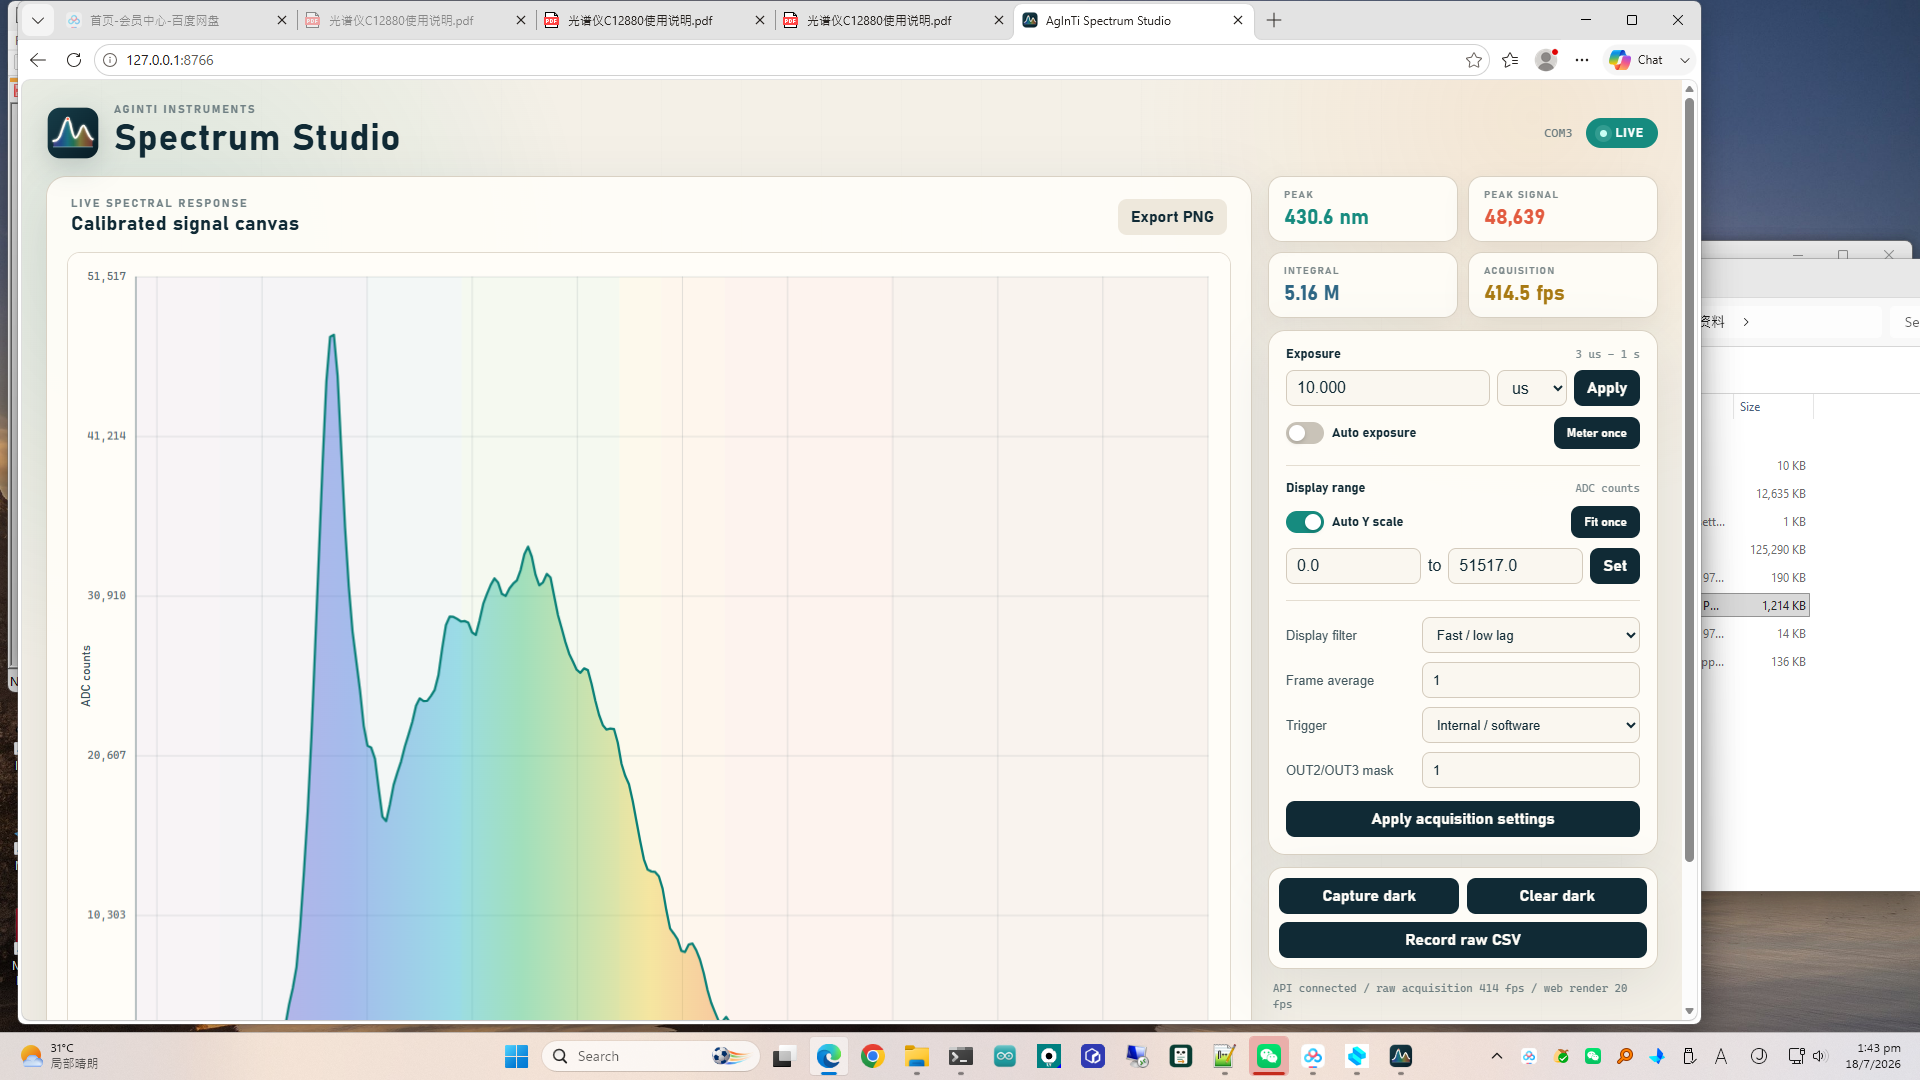
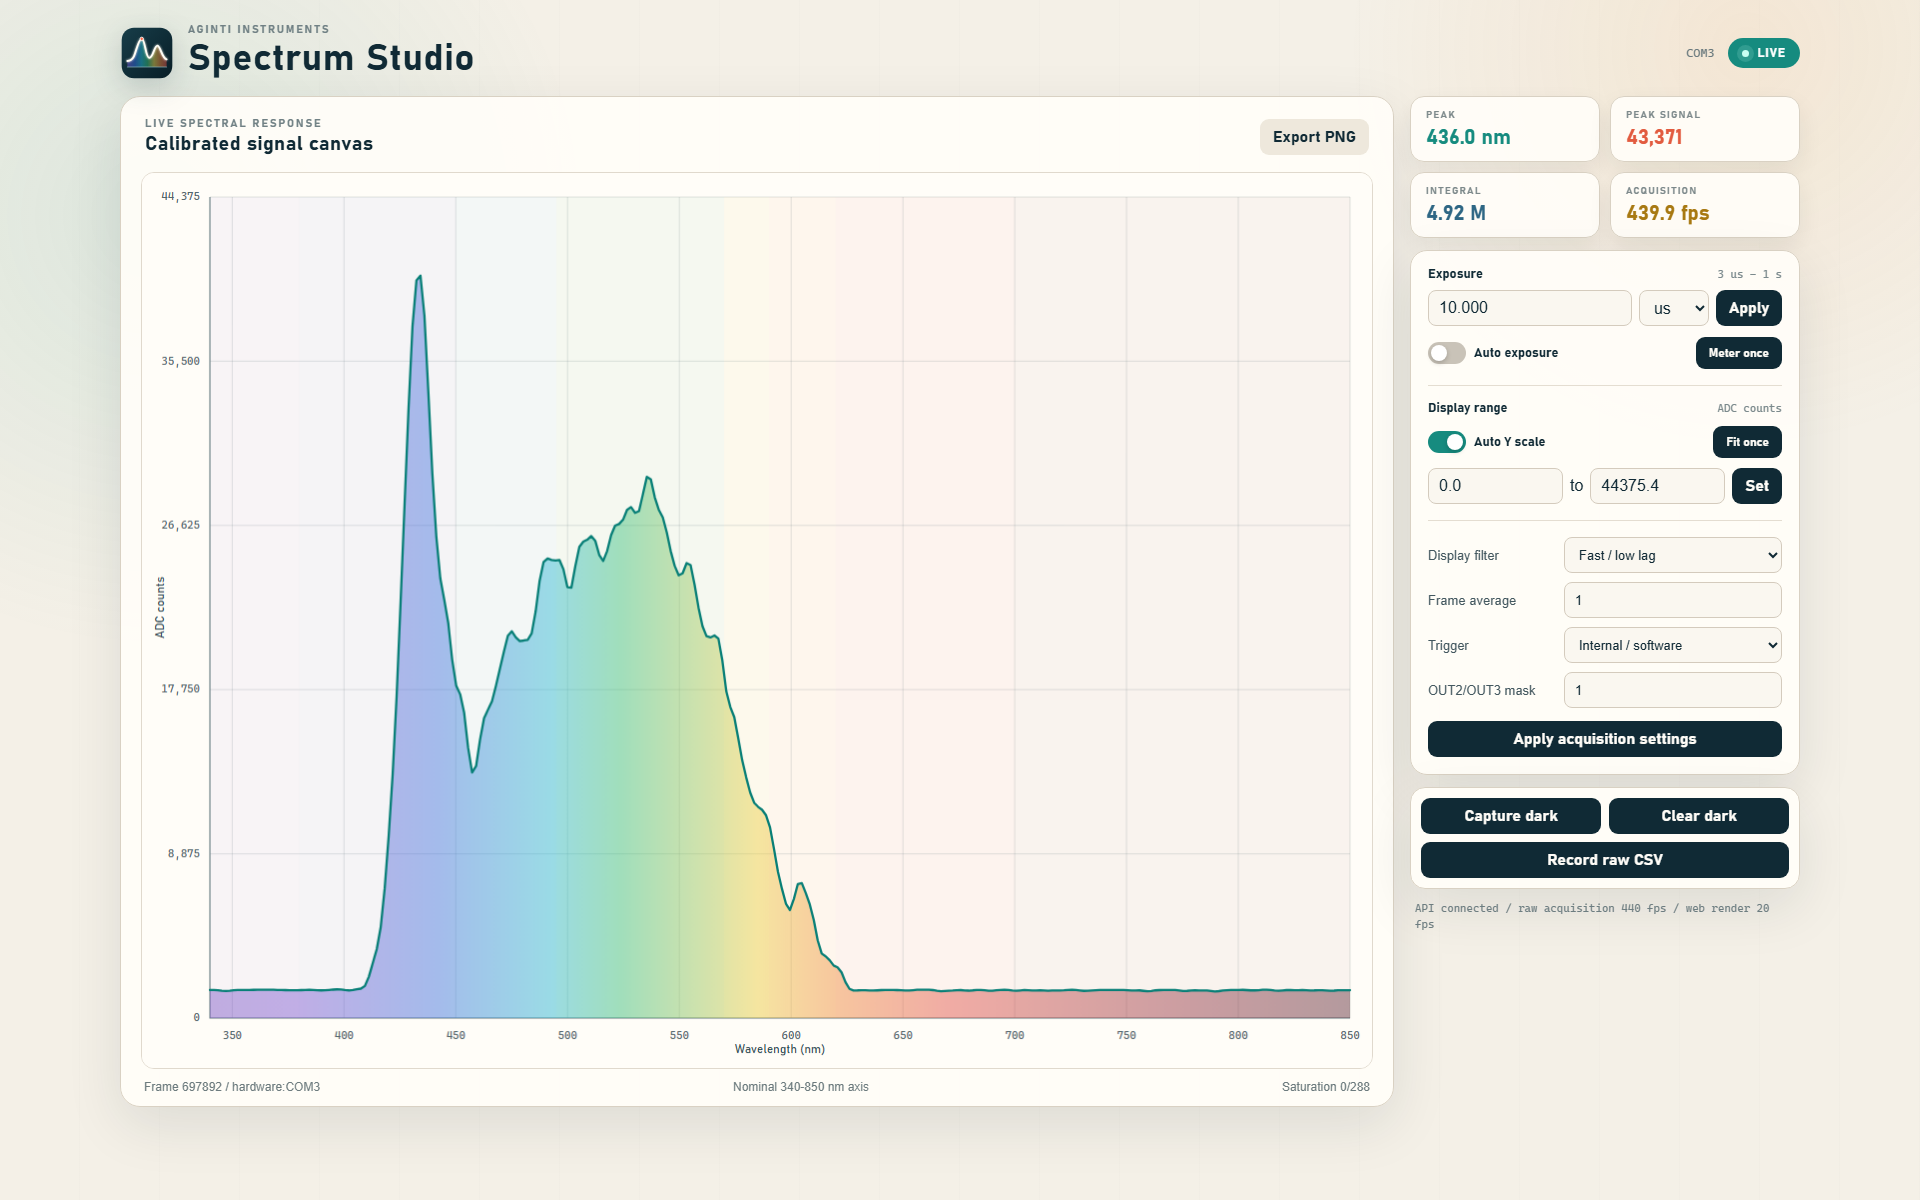
Refresh wavelength-aware live interface screenshot

diff --git a/README.md b/README.md
@@ -1,5 +1,23 @@
 # AgInTi Spectrum Studio
 
+[English](README.md) · [العربية](i18n/README.ar.md) · [Español](i18n/README.es.md) · [Français](i18n/README.fr.md) · [日本語](i18n/README.ja.md) · [한국어](i18n/README.ko.md) · [Tiếng Việt](i18n/README.vi.md) · [中文 (简体)](i18n/README.zh-Hans.md) · [中文（繁體）](i18n/README.zh-Hant.md) · [Deutsch](i18n/README.de.md) · [Русский](i18n/README.ru.md)
+
+<p align="center">
+  <img src="docs/assets/lazyingart-logo-white.jpg" width="108" alt="LazyingArt panda logo">
+</p>
+
+<p align="center">
+  <strong>High-rate C12880MA acquisition, adaptive exposure, and agent-ready spectral instrumentation.</strong>
+</p>
+
+<p align="center">
+  <a href="https://github.com/lachlanchen/AgInTi-Spectrometer"><img alt="GitHub" src="https://img.shields.io/badge/GitHub-AgInTi--Spectrometer-111827?logo=github"></a>
+  <a href="https://lazying.art"><img alt="LazyingArt" src="https://img.shields.io/badge/LazyingArt-Instrument-76B947"></a>
+  <img alt="Python" src="https://img.shields.io/badge/Python-3.11%2B-3776AB?logo=python&logoColor=white">
+</p>
+
+![AgInTi Spectrometer product prototype](docs/assets/aginti-spectrometer-hero.png)
+
 An independent acquisition and visualization application for the Hamamatsu C12880MA and its supplied USB controller. It reproduces the working vendor transport while keeping acquisition independent from GUI refresh, validating every 288-pixel frame, recording raw spectra, and exposing diagnostics for later system integration.
 
 ## Verified hardware protocol
@@ -56,6 +74,14 @@ capture and exposes exposure, scaling, smoothing, trigger, averaging, dark
 reference, and recording controls. The desktop and web applications share the
 same API state, so a change in either interface appears in the other.
 
+## Live Web Workbench
+
+![AgInTi Spectrum Studio live web interface](docs/assets/spectrum-studio-webapp.png)
+
+This capture shows the current wavelength-anchored under-curve color mapping
+and approximately 440 validated hardware frames per second. Web rendering
+remains capped independently, so visualization does not throttle acquisition.
+
 ## Features
 
 - Active `c12880` identity probing, so selection does not depend on a guessed VID/PID or COM number.
@@ -76,4 +102,14 @@ same API state, so a change in either interface appears in the other.
 
 Hamamatsu supplies wavelength-conversion coefficients on each sensor's individual test result sheet. Until those coefficients are entered, the app uses a clearly marked nominal linear 340-850 nm axis. This is suitable for connection testing and qualitative visualization, not calibrated peak metrology.
 
-See [references/protocol.md](references/protocol.md) for the recovered protocol and [references/vendor-recovery.md](references/vendor-recovery.md) for the local source-recovery workflow.
+See [references/protocol.md](references/protocol.md) for the recovered protocol,
+[references/vendor-recovery.md](references/vendor-recovery.md) for the local
+source-recovery workflow, and
+[references/wavelength-rendering-and-fps-limits.md](references/wavelength-rendering-and-fps-limits.md)
+for the rendering and throughput analysis.
+
+## Support
+
+[![Donate](https://img.shields.io/badge/Donate-LazyingArt-0EA5E9?style=for-the-badge)](https://chat.lazying.art/donate)
+[![PayPal](https://img.shields.io/badge/PayPal-RongzhouChen-00457C?style=for-the-badge&logo=paypal)](https://paypal.me/RongzhouChen)
+[![Stripe](https://img.shields.io/badge/Stripe-Donate-635BFF?style=for-the-badge&logo=stripe)](https://buy.stripe.com/aFadR8gIaflgfQV6T4fw400)